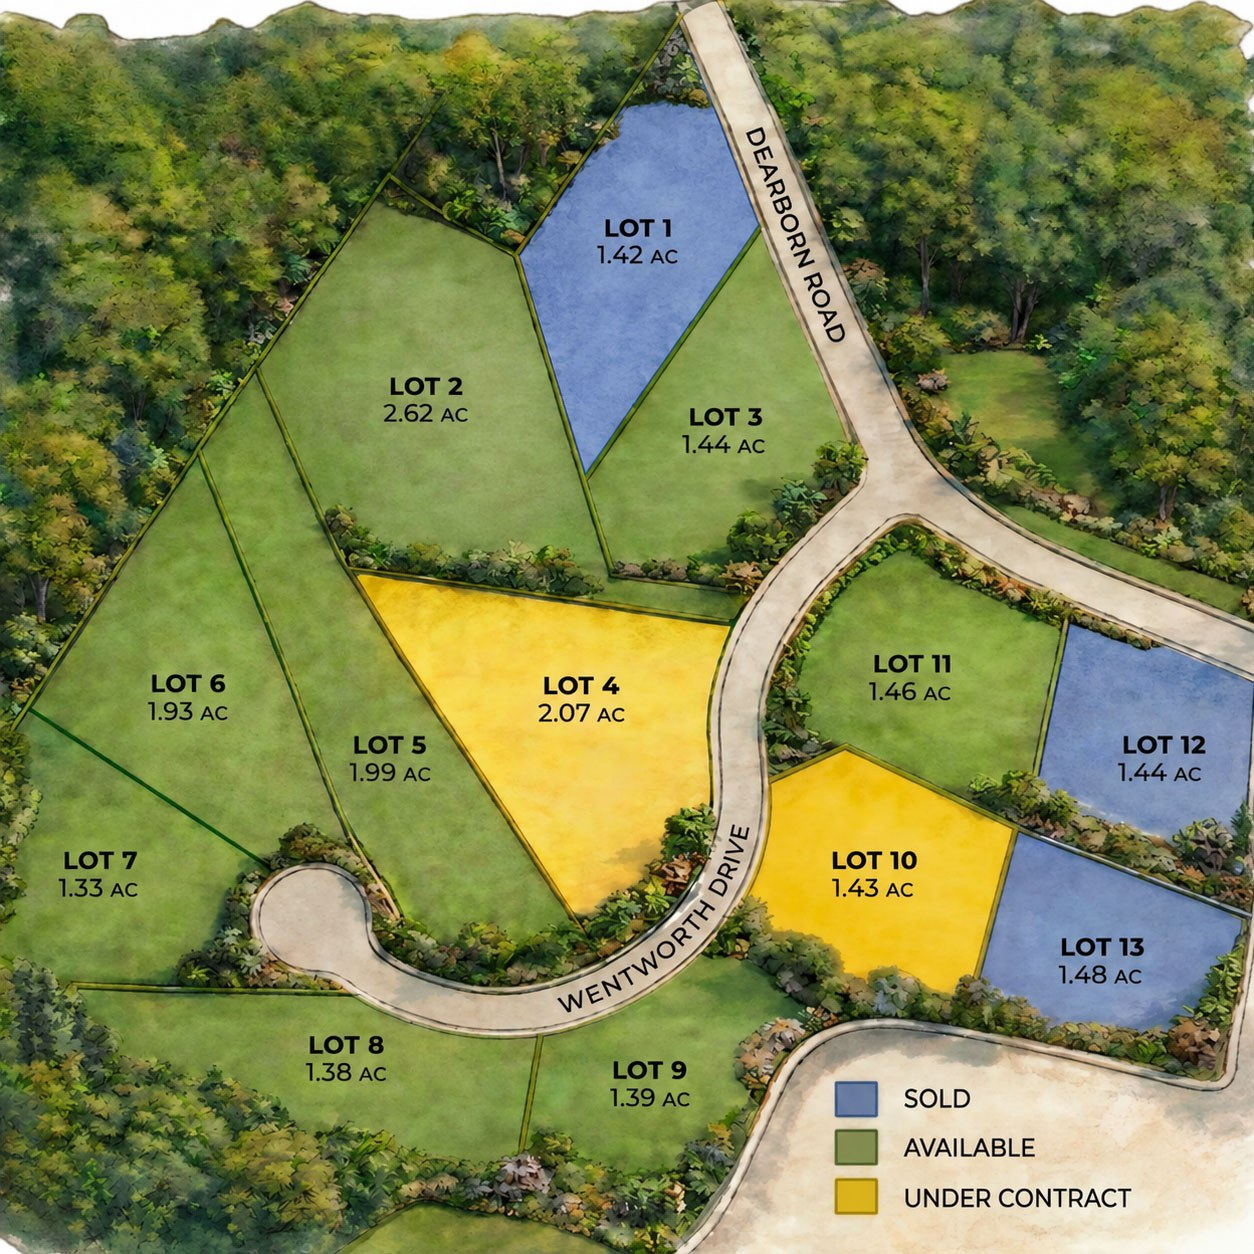
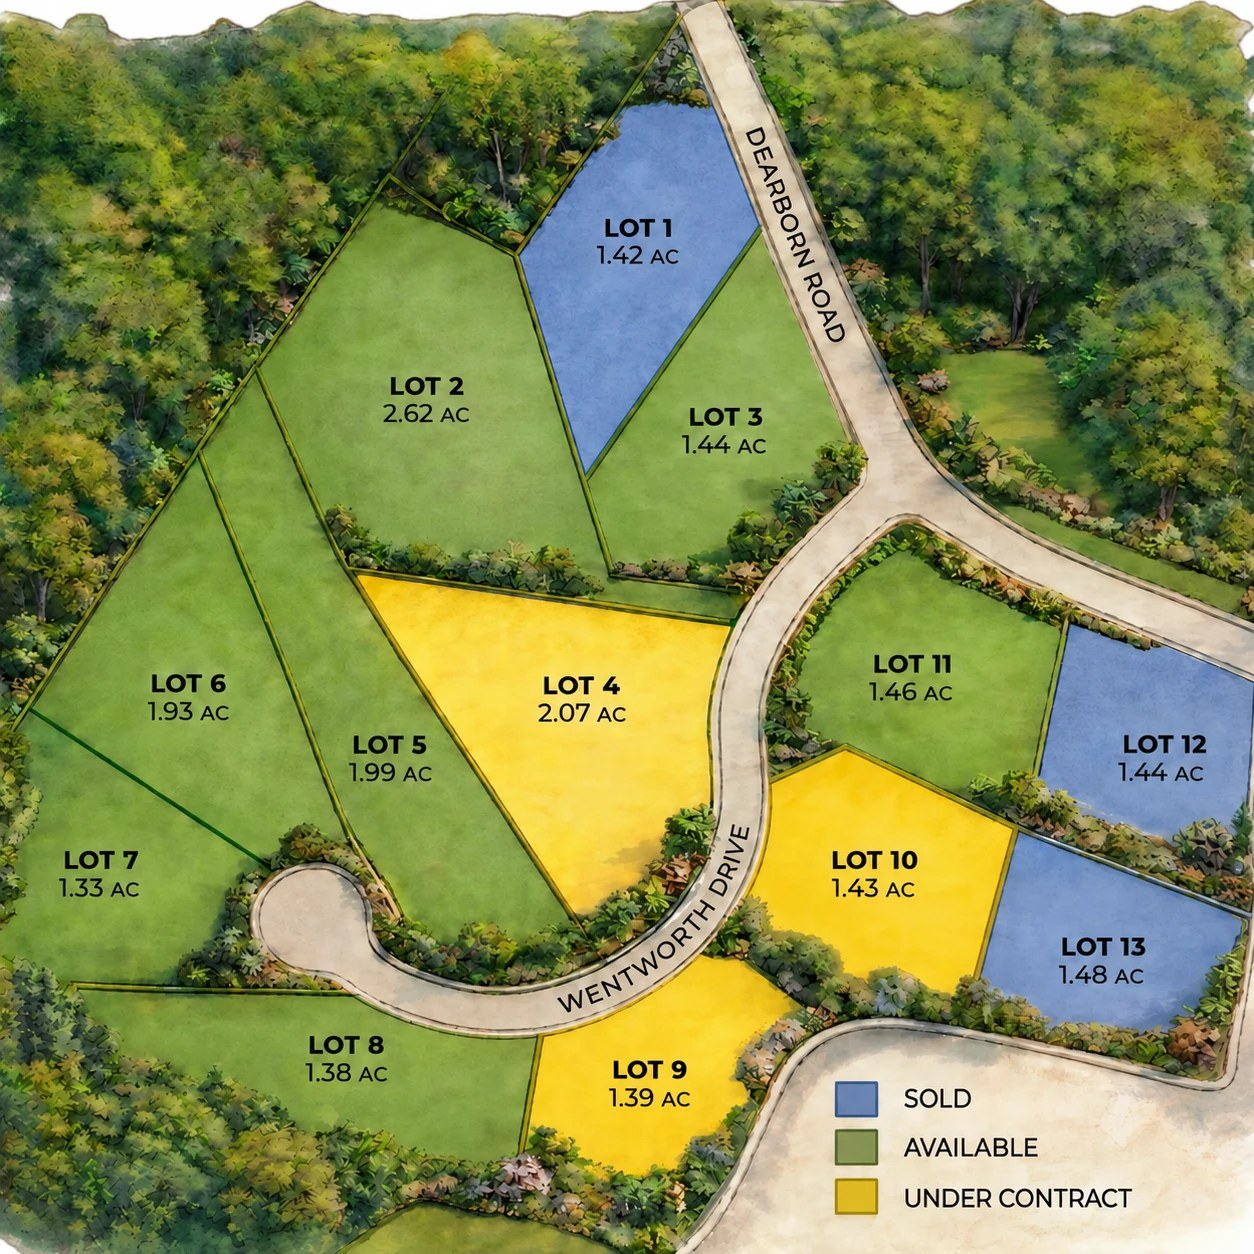
Lot 9 under contract; new site plan artwork from Proulx
Jared first said Lot 9 "closed", but sampling the new artwork against its own
legend swatches showed it painted yellow, not blue - under contract, not sold.
He confirmed under contract. Worth the check: publishing a lot as sold when it
is still under agreement is the kind of error a buyer or agent calls about.

Lot 9 is the only change in the artwork; the other twelve are untouched.
Verified every lot's fill colour against src/pages/SitePlan.tsx after the swap -
all 13 agree, so the inventory table and the map cannot contradict each other.

New image is the same 1254x1254 square at the same ~380KB, so the hand-mapped
lotPolygons hover overlay needed no re-mapping.

Status now: sold 1, 12, 13 / under contract 4, 9, 10 / available 2, 3, 5, 6, 7, 8, 11.

diff --git a/src/pages/SitePlan.tsx b/src/pages/SitePlan.tsx
@@ -33,7 +33,7 @@ export default function SitePlan() {
     { id: '6', size: '1.93 Acres', status: 'Available', terrain: 'N/A', frontage: '0 ft', setback: '0 ft', utilities: 'N/A', notes: 'Borders conservation land to the west.' },
     { id: '7', size: '1.33 Acres', status: 'Available', terrain: 'N/A', frontage: '0 ft', setback: '0 ft', utilities: 'N/A', notes: 'Quiet interior lot with established tree line.' },
     { id: '8', size: '1.38 Acres', status: 'Available', terrain: 'N/A', frontage: '0 ft', setback: '0 ft', utilities: 'N/A', notes: 'Adjacent to community green space.' },
-    { id: '9', size: '1.39 Acres', status: 'Available', terrain: 'N/A', frontage: '0 ft', setback: '0 ft', utilities: 'N/A', notes: 'Corner lot with dual road access potential.' },
+    { id: '9', size: '1.39 Acres', status: 'Under Contract', terrain: 'N/A', frontage: '0 ft', setback: '0 ft', utilities: 'N/A', notes: 'Corner lot with dual road access potential.' },
     { id: '10', size: '1.43 Acres', status: 'Under Contract', terrain: 'N/A', frontage: '0 ft', setback: '0 ft', utilities: 'N/A', notes: 'Backs to mature forest preserve.' },
     { id: '11', size: '1.46 Acres', status: 'Available', terrain: 'N/A', frontage: '0 ft', setback: '0 ft', utilities: 'N/A', notes: 'Open meadow with perimeter tree line.' },
     { id: '12', size: '1.44 Acres', status: 'Sold', terrain: 'N/A', frontage: '0 ft', setback: '0 ft', utilities: 'N/A', notes: 'Premium end-of-road location.' },
